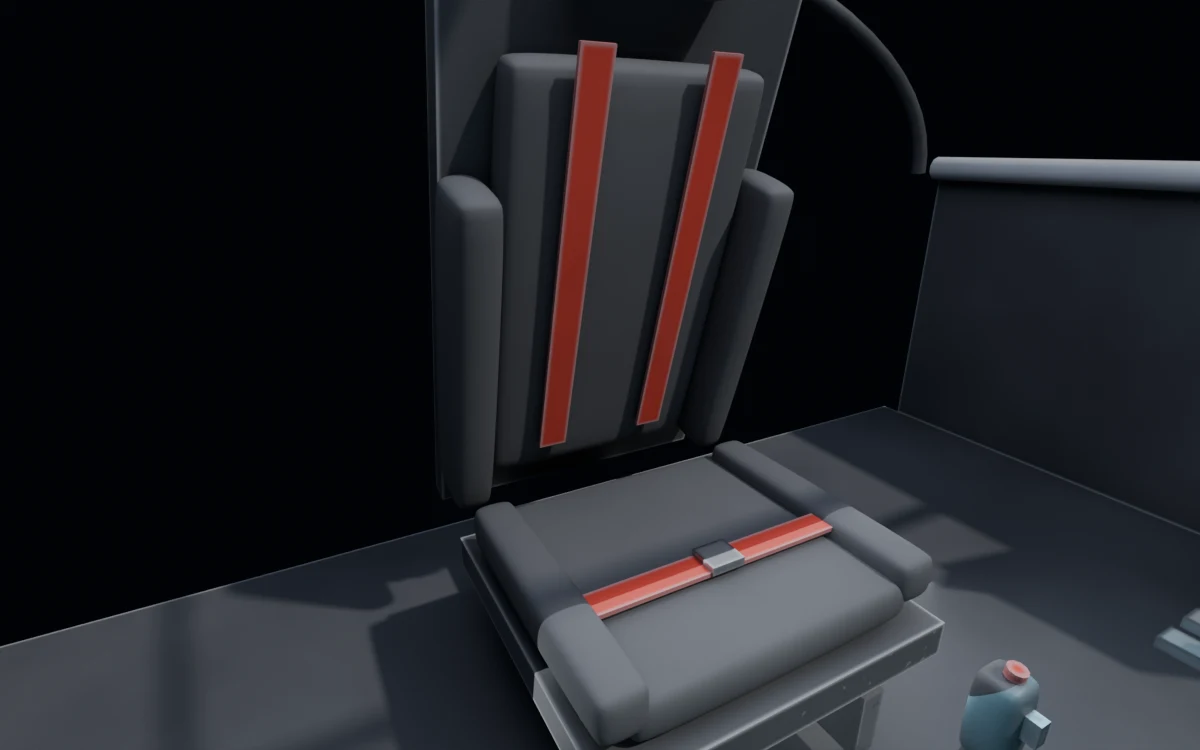
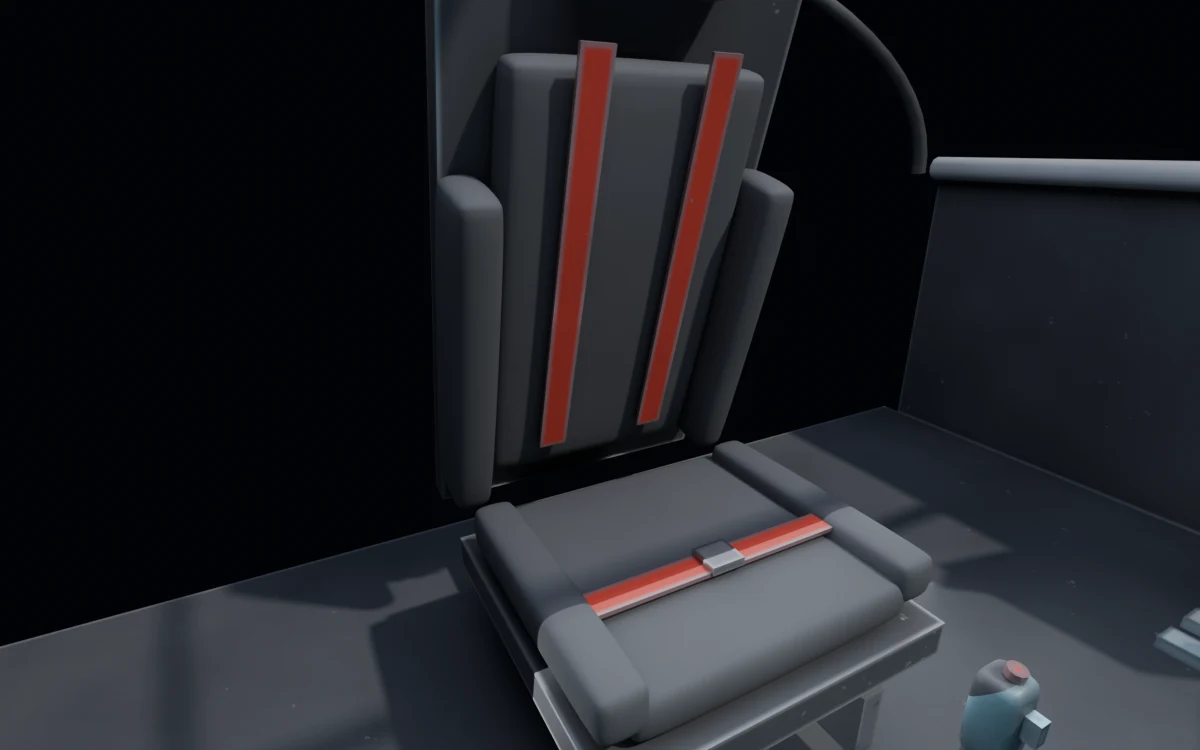
Şahin kokpiti r012: QC 0 FAIL, Kapı 2 sayfası güncellendi (r011→r012 karşılaştırması)
Claude-Session: https://claude.ai/code/session_01YNY6pHhgyKSWR2LEhZ1L9E

diff --git a/tools/asset_factory/docs/sahin_kapi2.html b/tools/asset_factory/docs/sahin_kapi2.html
@@ -48,28 +48,38 @@ tr:last-child td { border-bottom: 0 } td.num { text-align: right; white-space: n
 <main>
 <div class="eyebrow">Asset Factory · Şahin · Kapı 2 teknik onay</div>
 <h1>Şahin Kokpit Kapı 2</h1>
-<p class="lede">PRODUCTION revizyonu r011: ayrıntılı model, UV, bake ve GLB. QC sonucu 61 PASS, 1 WARN, 0 FAIL. Oyuna entegre edilmedi; entegrasyon ayrı bir onay ve ayrı bir aşama.</p>
+<p class="lede">PRODUCTION revizyonu r012: senin seçtiğin ayrıntı ve malzeme geçişi uygulandı. Tasarım (onaylı r008 düzeni) değişmedi. QC sonucu 61 PASS, 1 WARN, 0 FAIL. Oyuna entegre edilmedi; entegrasyon ayrı bir onay ve ayrı bir aşama.</p>
 
 <div class="kpis">
   <div class="kpi"><b>0 FAIL</b><span>QC (61 PASS · 1 WARN)</span></div>
-  <div class="kpi"><b>617 KB</b><span>GLB (Kaşif 3,78 MB)</span></div>
-  <div class="kpi"><b>7 686</b><span>üçgen (Kaşif 56 556)</span></div>
+  <div class="kpi"><b>717 KB</b><span>GLB (Kaşif 3,78 MB)</span></div>
+  <div class="kpi"><b>9 384</b><span>pilotun gördüğü üçgen (kaynak 25 090)</span></div>
   <div class="kpi"><b>5</b><span>draw call (Kaşif 15)</span></div>
   <div class="kpi"><b>32 MB</b><span>GPU doku (bütçe 40; Kaşif ~512)</span></div>
-  <div class="kpi"><b>ΔE 3,1–3,3</b><span>Blender ⟷ Three r128</span></div>
+  <div class="kpi"><b>ΔE 2,9–3,1</b><span>Blender ⟷ Three r128; parlaklık farkı 1,5–2,4 %</span></div>
 </div>
 
-<div class="note"><h3>Dürüst kalite değerlendirmesi</h3>
-<p>Teknik olarak bütün kurallar geçiyor ve oyunun motorundaki görüntü Blender ile çok yakın. Ancak <b>ayrıntı yoğunluğu ve yüzey gerçekçiliği Kaşif'in düzeyinde değil</b>:</p>
-<ul>
-  <li>Yüzeyler temiz ve boyalı. Aşınma, kir ve fırça izi pilot uzaklığından neredeyse seçilmiyor; Kaşif'te fırçalı metal ve kenar aşınması belirgin.</li>
-  <li>Konsolda derz, perçin ve anahtar panelleri var, ama Kaşif'teki ızgaralar, katmanlı paneller ve çerçeve ayrıntısı düzeyinde yüzey zenginliği yok.</li>
-  <li>Pilotun gördüğü yüzey 7,7 bin üçgen; Kaşif 56,5 bin. Bütçede (60 bin) büyük boşluk var.</li>
-  <li>Küçük kusurlar: yan rayların uçları çerçeve kenarında kama gibi görünüyor; sağ anahtar panelinin altında bir çentik var.</li>
-</ul>
-<p>Önerim: Kapı 2'yi şimdi vermek yerine bir <b>ayrıntı ve malzeme geçişi</b> (aşağıda 2. seçenek). Tasarım ve teknik altyapı hazır; eksik olan yüzey zenginliği.</p></div>
+<h2>r011 → r012: ayrıntı ve malzeme geçişi</h2>
+<figure><img src="img/r011_r012.webp" alt="r011 ve r012 pilot görüşü"><figcaption>Üstte r011, altta r012 (Blender lookdev, pilot kamerası).</figcaption></figure>
+<figure><img src="img/r012_yakin.webp" alt="r012 konsol yakın"><figcaption>r012 konsol, pilot görüşünden kırpılmış.</figcaption></figure>
+<div class="tbl"><table>
+<tr><th>Alan</th><th>Eklenen ya da düzeltilen</th></tr>
+<tr><td>Malzeme</td><td>Altından metal görünen boya kırıkları (metaliklik kanalında gerçek metal), geniş ölçekli kir lekelenmesi, dikey akıntı izleri, daha geniş kenar aşınması, metal parçalarda güçlü fırça izi ve çizik</td></tr>
+<tr><td>Ekranların altı</td><td>Vidalı katmanlı plakalar; RADAR altında uçuş kolunun iki yanında ızgaralı havalandırma; yan ekranlardan inen klipsli kablo kanalları</td></tr>
+<tr><td>Konsol üstü</td><td>Üst kenarda metal profil; göz kalkanında 7 kırmızı gösterge ışığı</td></tr>
+<tr><td>Yanlar</td><td>Konsol uçlarında tutunma kolları; yan panellerde çerçeveli ızgara (r011'deki "kama" görüntüsü kaldırıldı)</td></tr>
+<tr><td>Düzeltme</td><td>Panel derzleri anahtar panellerinin dışına alındı, paneller yüzeyi sık izliyor (r011'deki çentik kalktı)</td></tr>
+</table></div>
 
-<h2>Pilot görüşü: Blender (üstte) ⟷ oyunun motoru Three r128 (altta)</h2>
+<div class="note"><h3>Dürüst kalite değerlendirmesi</h3>
+<p>r012, r011'den belirgin biçimde daha zengin; iki görsel kusur giderildi ve bütün teknik kurallar geçiyor. Ancak:</p>
+<ul>
+  <li>Boya kırıkları ve lekelenme yakın planda seçiliyor, ama <b>pilot uzaklığında hâlâ ince</b>. Kaşif'in yıpranmış, koyu fırçalı metal hissi tam yakalanmış değil; Şahin'in açık gri boyalı yüzeyleri daha "temiz" okunuyor.</li>
+  <li>Bu kısmen tasarımın doğası: Şahin konsepti açık gri boyalı bir avcı, Kaşif ise koyu metal bir kokpit. Aşınmayı daha da artırmak Şahin'in temiz avcı kimliğini bozabilir.</li>
+</ul>
+<p>Bu nedenle karar senin: mevcut aşınma düzeyi Şahin için uygun mu, yoksa daha yıpranmış mı olmalı?</p></div>
+
+<h2>Pilot görüşü r012: Blender (üstte) ⟷ oyunun motoru Three r128 (altta)</h2>
 <figure><img src="img/blender_three_pilot.webp" alt="Şahin kokpiti pilot görüşü, Blender ve Three.js"><figcaption>Üstte Cycles lookdev, altta GLB'nin oyunun kendi <code>vendor/three.min.js</code> (r128) dosyasıyla render'ı (nötr ışık). Ekranlardaki camgöbeği yer tutucudur; oyunda canlı Sistem, Radar ve Gövde ekranları bağlanır.</figcaption></figure>
 <figure><img src="img/kasif_ref.webp" alt="Onaylı Kaşif kokpiti, oyun içi"><figcaption>Kalite referansı: onaylı Kaşif Blender kokpiti, oyun içinde.</figcaption></figure>
 
@@ -90,10 +100,10 @@ tr:last-child td { border-bottom: 0 } td.num { text-align: right; white-space: n
 <tr><td>Kamera ve soket</td><td>Kamera hatası 0 px; <code>SOCK_cam_0</code> yönü oyun −Z (0°)</td></tr>
 <tr><td>Cam oranı · HUD engeli</td><td>54,5 % · 0,6 % (Kaşif 50,7 % · 9,3 %)</td></tr>
 <tr><td>Geometri</td><td>Pilot gözünden görünen arka yüz 0; tekrar üretilebilirlik hash'i eşit; yüz yönü farkı 0,008 %</td></tr>
-<tr><td>Dokular</td><td>3 girdi = 3 görsel; yinelenen görsel yok; GPU 32 MB ≤ 40; texel 425 px/m (Kaşif 239)</td></tr>
-<tr><td>PBR</td><td>Dielektrik taban 66–185 · metal 140–180 sRGB; metal ikili; pürüzlülük ≥ 0,29</td></tr>
-<tr><td>Blender ⟷ Three r128 (3 göz kamerası)</td><td>parlaklık farkı 4,2–4,4 % · ΔE ort. 3,1–3,3 · siluet farkı 0,15–0,22 %</td></tr>
-<tr><td>Performans (swiftshader, bilgi)</td><td>1 örnek, 5 çağrı, 16–18 ms/kare (yazılım GPU'su; gerçek cihaz ölçümü <code>bench.html</code> ile)</td></tr>
+<tr><td>Dokular</td><td>3 girdi = 3 görsel; yinelenen görsel yok; GPU 32 MB ≤ 40; texel 406 px/m (Kaşif 239)</td></tr>
+<tr><td>PBR</td><td>Dielektrik taban 65–179 · metal 140–183 sRGB; ara metaliklik 3,9 % (boya kırıkları); pürüzlülük ≥ 0,31</td></tr>
+<tr><td>Blender ⟷ Three r128 (3 göz kamerası)</td><td>parlaklık farkı 1,5–2,4 % · ΔE ort. 2,9–3,1 · siluet farkı 0,15–0,23 %</td></tr>
+<tr><td>Performans (swiftshader, bilgi)</td><td>1 örnek, 5 çağrı, 9 384 üçgen (yazılım GPU'su; gerçek cihaz ölçümü <code>bench.html</code> ile)</td></tr>
 </table></div>
 <figure><img src="img/dE_pilot.webp" alt="Blender, Three ve ΔE haritası"><figcaption>Pilot kamerası: Blender altın referans · Three r128 · ΔE haritası. Fark kenar piksellerinde ve ince ayrıntılarda.</figcaption></figure>
 
@@ -109,19 +119,12 @@ tr:last-child td { border-bottom: 0 } td.num { text-align: right; white-space: n
 </table></div>
 
 <div class="gate">
-  <h2>Kapı 2: senin kararın</h2>
+  <h2>Kapı 2: senin kararın (r012)</h2>
   <ol>
-    <li><b>Teknik onay:</b> r011 olduğu gibi teslim paketine girer (GLB, dokular, spec sheet, QC raporu, entegrasyon notu). Oyuna entegrasyon yine ayrı bir onay.</li>
-    <li><b>Ayrıntı ve malzeme geçişi (önerim):</b> Tasarım aynı kalır. Yapılacaklar:
-      <ul>
-        <li>Konsolda katmanlı paneller, ızgara ve havalandırmalar, kablo kanalları, çerçeve profilleri.</li>
-        <li>Belirgin kenar aşınması, kir ve fırçalı metal vurgular.</li>
-        <li>Ray uçlarının ve çentiğin düzeltilmesi.</li>
-        <li>Üçgen hedefi ~25–35 bin; GPU bütçesi aynı kalır.</li>
-      </ul>
-      Sonra yeniden Kapı 2.</li>
+    <li><b>Teknik onay:</b> r012 teslim paketine girer: GLB, dokular, spec sheet, QC raporu, entegrasyon notu. Oyuna entegrasyon yine ayrı bir onay.</li>
+    <li><b>Daha yıpranmış görünüm:</b> Aşınma, kir ve kırık yoğunluğunu artırıp konsol ve kenarlarda koyu metal oranını yükseltirim. Geometri aynı kalır; yalnızca malzeme ve bake yenilenir (~20 dk), sonra yeniden Kapı 2.</li>
     <li><b>Başka değişiklik:</b> İstediğin noktaları yaz.</li>
   </ol>
-  <p style="color:var(--muted);font-size:14px">Koltuk pilot kamerasında görünmüyor (pilotun arkasında ve altında). GLB'de kalması isteğe bağlı; çıkarılırsa ~900 üçgen ve atlas alanı kazanılır. Varsayılan: kalsın.</p>
+  <p style="color:var(--muted);font-size:14px">Koltuk pilot kamerasında görünmüyor; varsayılan olarak GLB'de kalıyor (çıkarılırsa ~900 üçgen kazanılır).</p>
 </div>
 </main>
